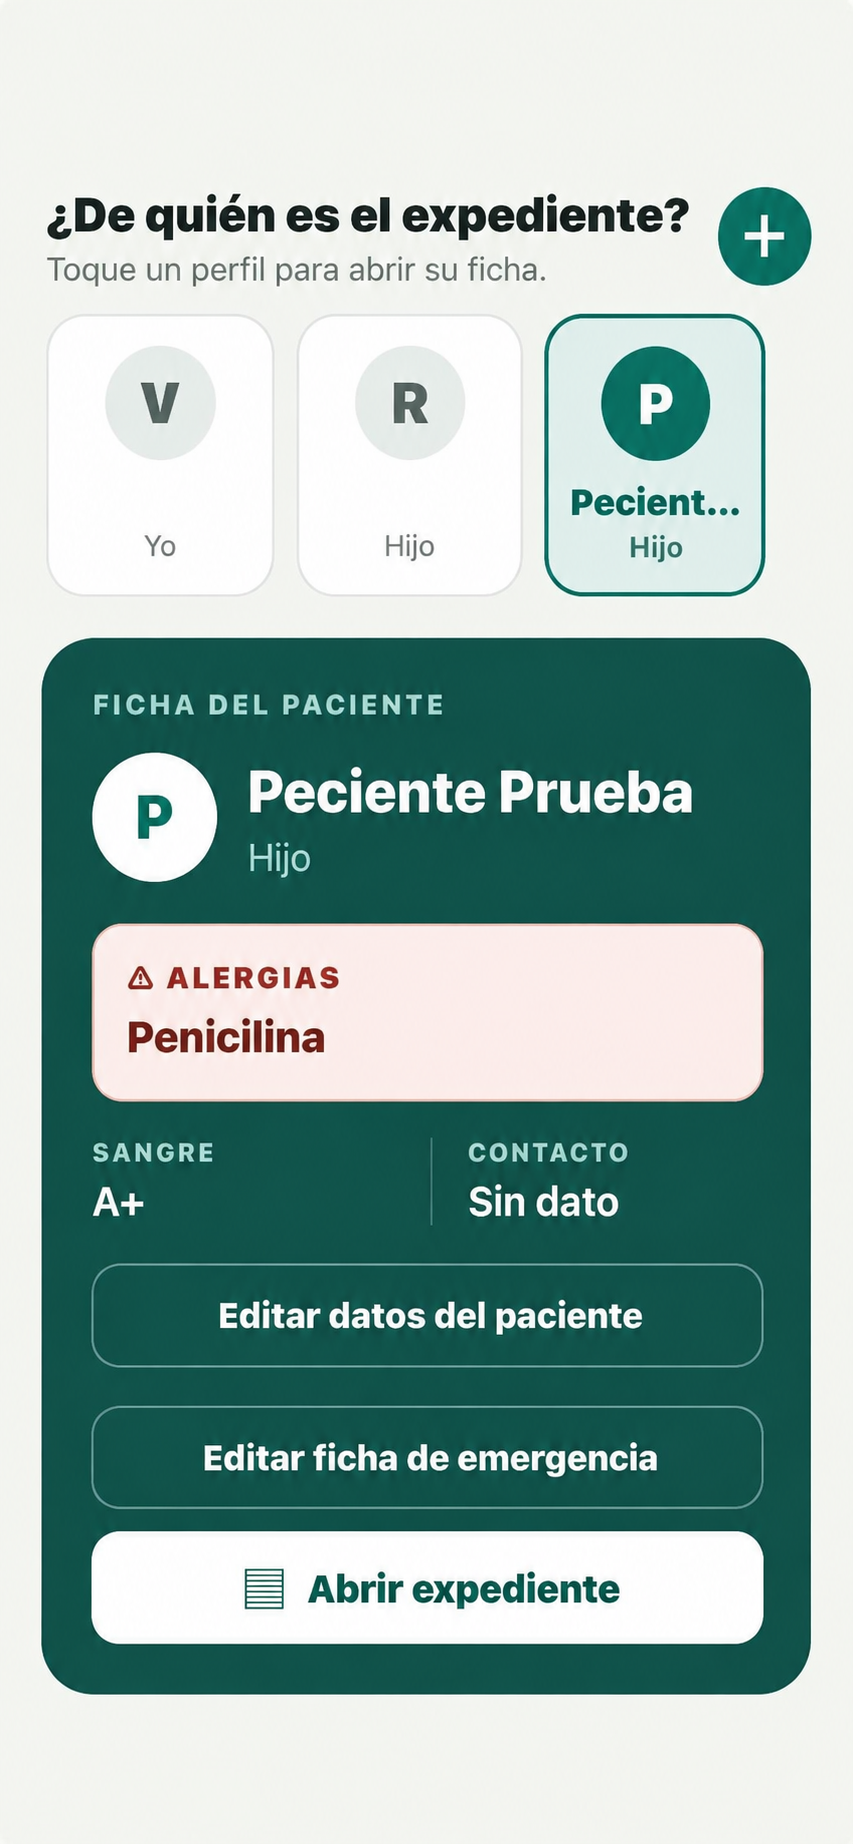
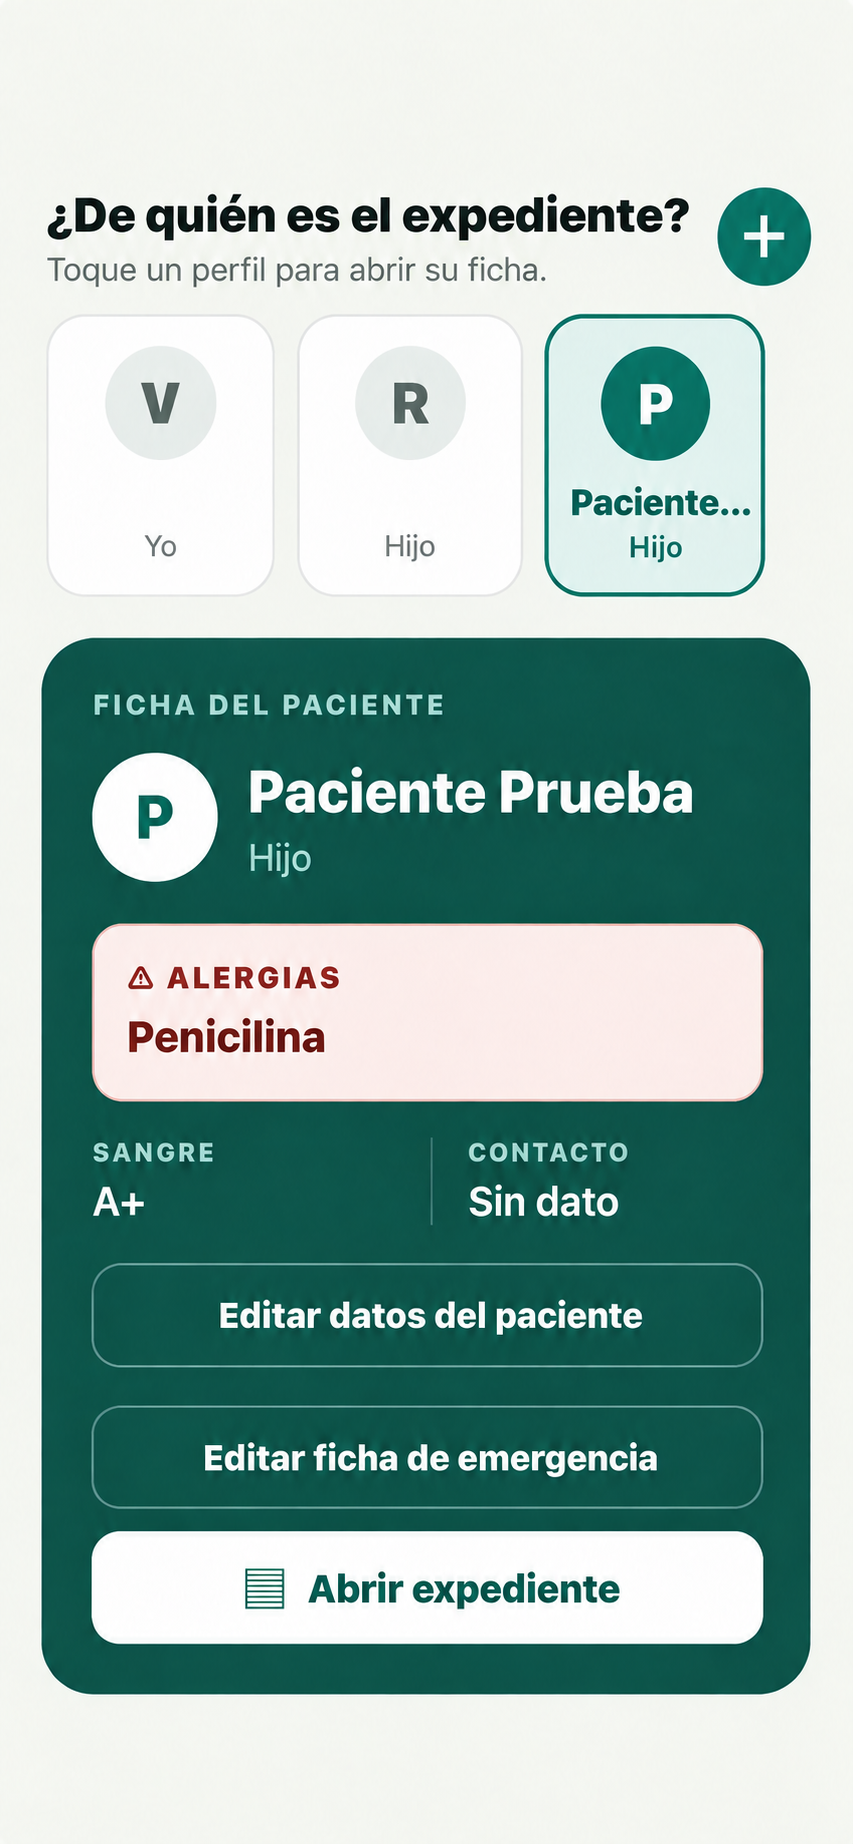
Corrige captura de paciente en pagina publica

diff --git a/conoce/index.html b/conoce/index.html
@@ -53,7 +53,7 @@
 <body>
 <nav class="nav"><div class="nav-inner"><a class="brand" href="#inicio"><img src="../logo.png" alt="PPS Salud">PPS Salud</a><div class="links"><a href="#funciones">Funciones</a><a href="#experiencia">Cómo ayuda</a><a href="#privacidad">Privacidad</a><a href="https://www.facebook.com/ppssalud" target="_blank" rel="noopener">Facebook</a><a class="nav-cta" href="#descargar">Descargar</a></div></div></nav>
 <main>
-<section class="hero" id="inicio"><div class="hero-inner"><div><span class="eyebrow">Tu información, bajo tu control</span><h1>PPS Salud – Portal Personal de Salud<span>Tu salud. Bien organizada.</span></h1><p class="lead">Citas, medicamentos, estudios y datos importantes de tu familia reunidos en una experiencia clara, privada y fácil de consultar.</p><div class="actions"><a class="store" href="https://apps.apple.com/mx/app/pps-salud/id6799216959" aria-label="Descargar PPS Salud en App Store"><img src="assets/app-store-badge.svg" alt="Descargar en el App Store"></a><a class="text-link" href="#video">Ver PPS Salud en acción</a></div><div class="trust"><span>Sin anuncios dentro de la app</span><span>Información en tu dispositivo</span><span>Tú decides qué compartir</span></div></div><div class="stage" id="video"><div class="glow"></div><div class="phone"><video controls muted autoplay loop playsinline preload="metadata" poster="assets/medicos-citas.png"><source src="assets/pps-salud-presentacion.mp4" type="video/mp4">Tu navegador no puede reproducir este video.</video></div><div class="float one"><b>Todo en un lugar</b>Estudios organizados</div><div class="float two"><b>A tiempo</b>Citas y recordatorios</div></div></div></section>
+<section class="hero" id="inicio"><div class="hero-inner"><div><span class="eyebrow">Tu información, bajo tu control</span><h1>PPS Salud – Portal Personal de Salud<span>Tu salud. Bien organizada.</span></h1><p class="lead">Citas, medicamentos, estudios y datos importantes de tu familia reunidos en una experiencia clara, privada y fácil de consultar.</p><div class="actions"><a class="store" href="https://apps.apple.com/mx/app/pps-salud/id6799216959" aria-label="Descargar PPS Salud en App Store"><img src="assets/app-store-badge.svg" alt="Descargar en el App Store"></a><a class="text-link" href="#video">Ver PPS Salud en acción</a></div><div class="trust"><span>Sin anuncios dentro de la app</span><span>Información en tu dispositivo</span><span>Tú decides qué compartir</span></div></div><div class="stage" id="video"><div class="glow"></div><div class="phone"><img src="assets/perfiles-familia.png" alt="Pantalla real de PPS Salud con perfiles familiares y ficha de emergencia"></div><div class="float one"><b>Todo en un lugar</b>Estudios organizados</div><div class="float two"><b>A tiempo</b>Citas y recordatorios</div></div></div></section>
 <section class="section dark" id="funciones"><div class="wrap"><div class="head"><span class="kicker">Pensada para la vida real</span><h2>Menos tiempo buscando. Más claridad.</h2><p>PPS Salud ayuda a resolver el desorden cotidiano de la información personal de salud sin intentar diagnosticar ni sustituir a profesionales.</p></div><div class="grid">
 <article class="feature"><span class="num">01</span><div><h3>Expediente personal</h3><p>Reúne antecedentes, alergias, mediciones, vacunas y contactos importantes.</p></div></article><article class="feature"><span class="num">02</span><div><h3>Perfiles familiares</h3><p>Mantén un expediente separado para cada persona, con sus alergias, tipo de sangre y datos de emergencia.</p></div></article><article class="feature"><span class="num">03</span><div><h3>Médicos y citas</h3><p>Conserva especialistas, consultorios, fechas, alertas y rutas para llegar.</p></div></article><article class="feature"><span class="num">04</span><div><h3>Medicamentos</h3><p>Organiza indicaciones, recetas, horarios e historial de tomas.</p></div></article><article class="feature"><span class="num">05</span><div><h3>Estudios</h3><p>Guarda documentos, fotografías y enlaces ordenados por fecha y categoría.</p></div></article><article class="feature"><span class="num">06</span><div><h3>Compartir con control</h3><p>Genera un PDF completo o selecciona únicamente la información que deseas enviar.</p></div></article></div></div></section>
 <section class="section stories" id="experiencia"><div class="wrap">
@@ -66,6 +66,6 @@
 <section class="section privacy" id="privacidad"><div class="wrap privacy-grid"><div class="head"><span class="kicker">Privacidad desde el diseño</span><h2>Tu expediente es tuyo.</h2><p>PPS Salud funciona como organizador personal. Tú registras la información y decides cuándo y con quién compartirla.</p></div><div class="privacy-card"><h3>Control claro</h3><ul><li>La información permanece cifrada en tu dispositivo.</li><li>PPS Salud no almacena expedientes en servidores propios.</li><li>Puedes generar un respaldo antes de cambiar de equipo.</li><li>El PDF incluye únicamente las secciones que elijas.</li></ul></div></div></section>
 <section class="section"><div class="wrap"><div class="head"><span class="kicker">La aplicación real</span><h2>Diseñada para comprenderse de inmediato.</h2><p>Estas son pantallas reales y actuales de PPS Salud con información demostrativa.</p></div><div class="gallery"><img src="assets/perfiles-familia.png" alt="Perfiles familiares y ficha de emergencia" loading="lazy"><img src="assets/expediente-actual.png" alt="Secciones actuales del expediente" loading="lazy"><img src="assets/antecedentes-actual.png" alt="Antecedentes organizados por categoría" loading="lazy"><img src="assets/medicos-citas.png" alt="Médicos y citas" loading="lazy"><img src="assets/mapas-rutas.png" alt="Rutas al consultorio" loading="lazy"><img src="assets/medicamentos-alertas.png" alt="Medicamentos y alertas" loading="lazy"><img src="assets/estudios-organizados.png" alt="Estudios organizados" loading="lazy"><img src="assets/compartir-expediente.png" alt="Compartir expediente en PDF" loading="lazy"></div></div></section>
 <section class="section allies" id="aliados"><div class="wrap"><div class="head"><span class="kicker">Aliados de la salud</span><h2>Ayúdanos a acercar PPS Salud a más personas.</h2><p>Médicos, laboratorios y farmacias pueden dar a conocer una herramienta que ayuda a organizar citas, estudios, medicamentos y registros de tomas, sin sustituir la atención profesional.</p></div><div class="allies-grid"><figure class="ally-card"><img src="assets/anuncio-medicos.png" alt="Anuncio de PPS Salud dirigido a médicos" loading="lazy"><figcaption>Para médicos</figcaption></figure><figure class="ally-card"><img src="assets/anuncio-laboratorios.png" alt="Anuncio de PPS Salud dirigido a laboratorios" loading="lazy"><figcaption>Para laboratorios</figcaption></figure><figure class="ally-card"><img src="assets/anuncio-farmacias.png" alt="Anuncio de PPS Salud dirigido a farmacias" loading="lazy"><figcaption>Para farmacias</figcaption></figure></div></div></section>
-<section class="download" id="descargar"><div class="download-inner"><span class="kicker">Disponible en México</span><h2>Tu información de salud, contigo.</h2><p>Escanea el código con la cámara de tu teléfono o abre directamente PPS Salud en App Store.</p><a href="https://apps.apple.com/mx/app/pps-salud/id6799216959" aria-label="Abrir PPS Salud en App Store"><div class="qr"><img src="assets/app-store-qr.png" alt="Código QR para descargar PPS Salud en App Store"></div></a><a class="store" href="https://apps.apple.com/mx/app/pps-salud/id6799216959"><img src="assets/app-store-badge.svg" alt="Descargar en el App Store"></a><div class="download-links"><a href="../">Soporte</a><a href="../privacidad.html">Privacidad</a><a href="../terminos.html">Términos</a><a href="../Manual-de-usuario-PPS-Salud.pdf">Manual</a><a href="../suscripciones/">Planes</a><a href="https://www.facebook.com/ppssalud" target="_blank" rel="noopener">Facebook</a><a href="assets/pps-salud-presentacion.mp4" download>Descargar video</a></div><p class="apple-note">Apple, el logotipo de Apple, iPhone y App Store son marcas comerciales de Apple Inc., registradas en Estados Unidos y otros países y regiones. PPS Salud es una aplicación independiente y no está afiliada ni patrocinada por Apple Inc.</p></div></section>
+<section class="download" id="descargar"><div class="download-inner"><span class="kicker">Disponible en México</span><h2>Tu información de salud, contigo.</h2><p>Escanea el código con la cámara de tu teléfono o abre directamente PPS Salud en App Store.</p><a href="https://apps.apple.com/mx/app/pps-salud/id6799216959" aria-label="Abrir PPS Salud en App Store"><div class="qr"><img src="assets/app-store-qr.png" alt="Código QR para descargar PPS Salud en App Store"></div></a><a class="store" href="https://apps.apple.com/mx/app/pps-salud/id6799216959"><img src="assets/app-store-badge.svg" alt="Descargar en el App Store"></a><div class="download-links"><a href="../">Soporte</a><a href="../privacidad.html">Privacidad</a><a href="../terminos.html">Términos</a><a href="../Manual-de-usuario-PPS-Salud.pdf">Manual</a><a href="../suscripciones/">Planes</a><a href="https://www.facebook.com/ppssalud" target="_blank" rel="noopener">Facebook</a></div><p class="apple-note">Apple, el logotipo de Apple, iPhone y App Store son marcas comerciales de Apple Inc., registradas en Estados Unidos y otros países y regiones. PPS Salud es una aplicación independiente y no está afiliada ni patrocinada por Apple Inc.</p></div></section>
 </main><footer>© 2026 PPS Salud. Herramienta personal para organizar información; no diagnostica, prescribe ni sustituye la atención médica profesional.</footer>
 </body></html>
